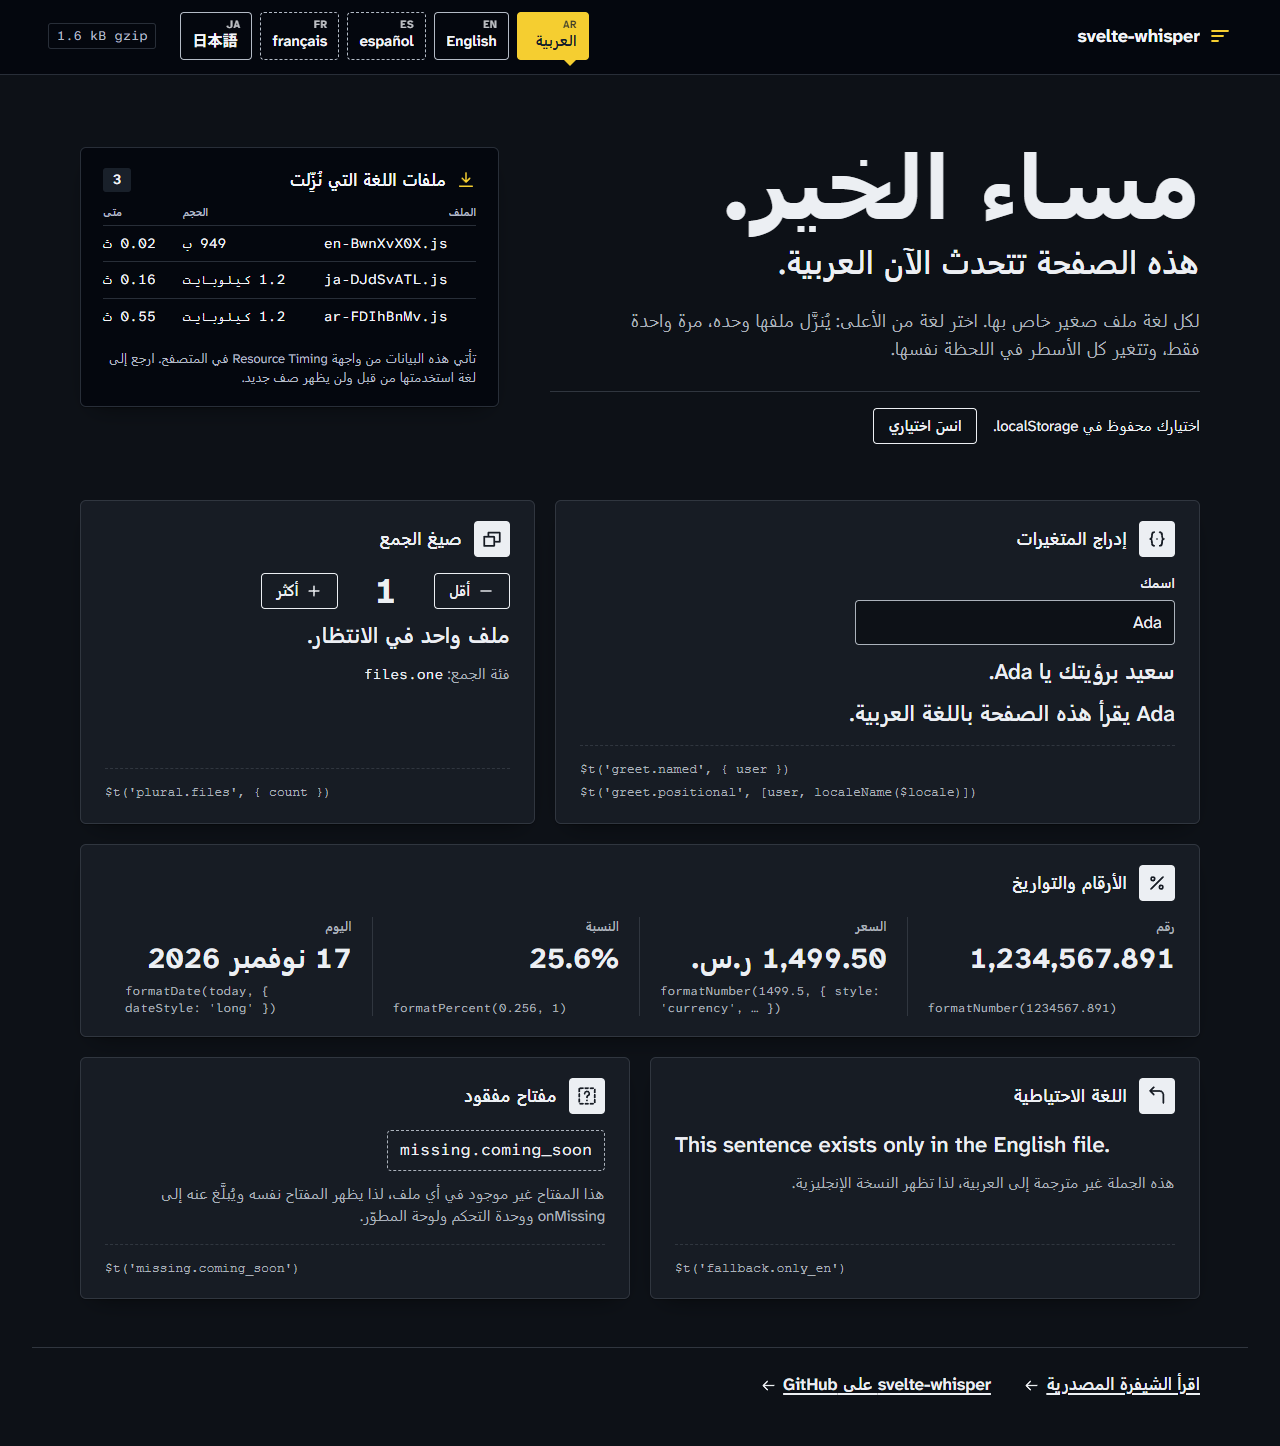
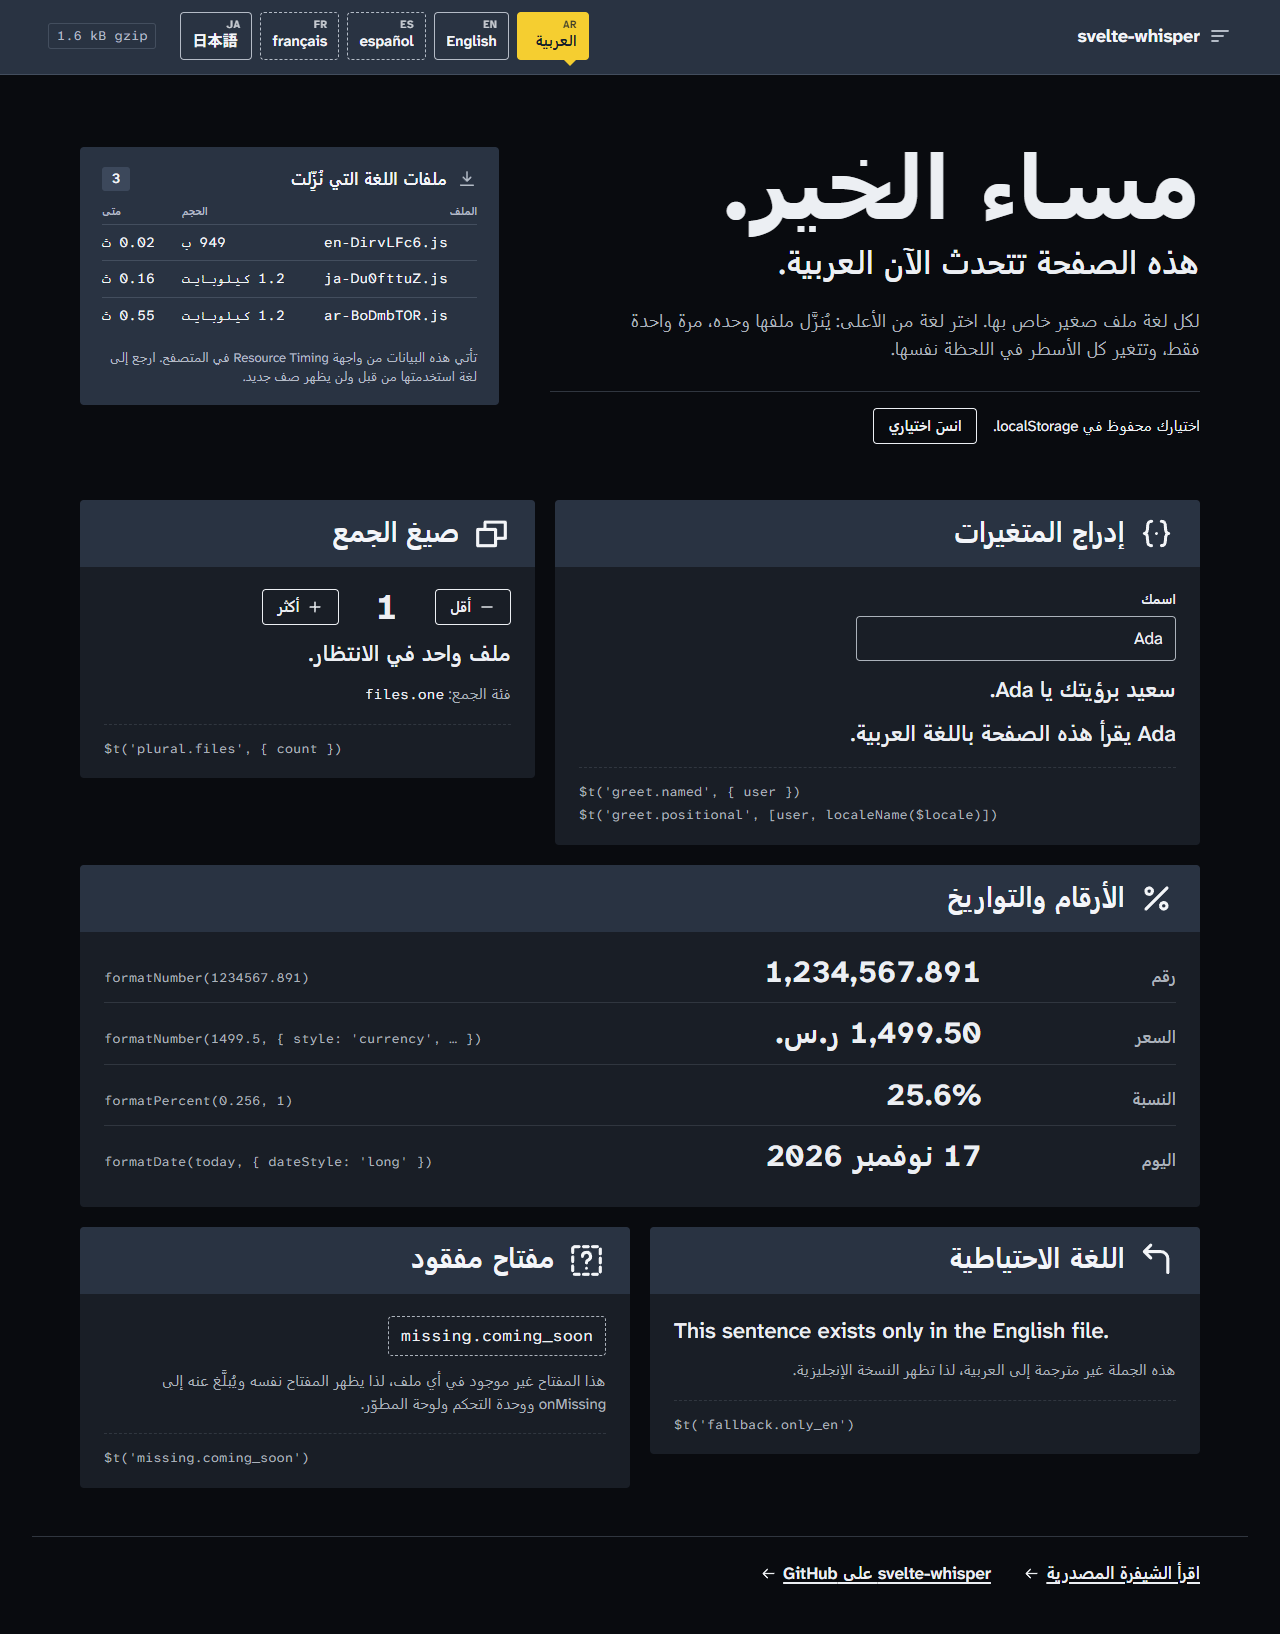
feat(example): flat enamel sign plates on concrete, one signage readout for formatting
Addresses the finish review: signs lose card chrome for an ink legend strip
at sign scale, the ground becomes concrete, signal yellow is reserved for
the active language, the formatting tiles become one label/figure/call
readout, tablet no longer clips the plural counter, code lines use the
mono face in every locale, Japanese headings break between phrases, and
cached rows say "cached". Screenshots recaptured.

diff --git a/example/src/App.svelte b/example/src/App.svelte
@@ -156,7 +156,7 @@
         border-bottom: 1px solid var(--band-rule);
         background: var(--band);
         color: var(--band-ink);
-        --focus: var(--signal);
+        --focus: var(--band-ink);
     }
     .wordmark {
         display: flex;
@@ -169,7 +169,7 @@
     }
     .wordmark :global(svg) {
         font-size: 1.5rem;
-        color: var(--signal);
+        color: var(--band-ink-2);
     }
     nav {
         margin-inline-start: auto;
@@ -268,6 +268,7 @@
     }
     .counter {
         display: flex;
+        flex-wrap: wrap;
         align-items: center;
         gap: 0.75rem;
     }
@@ -286,42 +287,38 @@
         font: 1rem/1.4 var(--mono);
     }
 
+    /* One readout board: label, figure and the call that made it, on a shared baseline. */
     .readouts {
         display: grid;
-        grid-template-columns: repeat(4, minmax(0, 1fr));
         margin: 0;
     }
     .readouts div {
         display: grid;
-        grid-template-rows: auto 1fr auto;
-        gap: 0.375rem;
-        padding-inline: 1.25rem;
-        border-inline-start: 1px solid var(--rule);
+        grid-template-columns: minmax(6.5rem, 0.6fr) minmax(0, 1.6fr) minmax(0, 1.4fr);
+        align-items: baseline;
+        gap: 0.25rem 1.5rem;
+        padding: 0.75rem 0;
+        border-top: 1px solid var(--rule);
     }
     .readouts div:first-child {
-        padding-inline-start: 0;
-        border-inline-start: 0;
+        padding-top: 0;
+        border-top: 0;
     }
     dt {
         color: var(--ink-2);
-        font-size: 0.8125rem;
         font-weight: 600;
-        letter-spacing: 0.04em;
-        text-transform: uppercase;
     }
     dd {
         margin: 0;
-        font-size: clamp(1.375rem, 1rem + 1vw, 1.875rem);
+        font-size: clamp(1.5rem, 1.1rem + 1vw, 2rem);
         font-weight: 700;
         line-height: 1.2;
         font-variant-numeric: tabular-nums;
-        overflow-wrap: anywhere;
     }
     .readouts code {
         color: var(--ink-2);
-        font: 0.75rem/1.4 var(--mono);
+        font: 0.8125rem/1.4 var(--mono);
         text-align: left;
-        overflow-wrap: anywhere;
     }
 
     footer {
@@ -342,17 +339,13 @@
 
     @media (max-width: 60rem) {
         .top { grid-template-columns: minmax(0, 1fr); }
-        .readouts { grid-template-columns: repeat(2, minmax(0, 1fr)); row-gap: 1.5rem; }
-        .readouts div:nth-child(3) { padding-inline-start: 0; border-inline-start: 0; }
     }
     @media (max-width: 62rem) {
         nav { order: 3; width: 100%; margin-inline-start: 0; }
         .size { margin-inline-start: auto; }
     }
     @media (max-width: 40rem) {
-        .readouts { grid-template-columns: minmax(0, 1fr); }
-        .readouts div { padding-inline: 0; border-inline-start: 0; }
-        .readouts div + div { padding-top: 1rem; border-top: 1px solid var(--rule); }
+        .readouts div { grid-template-columns: minmax(0, 1fr); }
         .sample { font-size: 1.25rem; }
     }
 </style>

diff --git a/example/src/app.css b/example/src/app.css
@@ -1,18 +1,18 @@
 @import '@fontsource-variable/atkinson-hyperlegible-next';
 @import '@fontsource-variable/atkinson-hyperlegible-mono';
 
-/* Wayfinding signage: enamel panels on concrete, an ink overhead band,
-   one signal yellow that only ever means "you are here". */
+/* Wayfinding signage: flat enamel plates on concrete, an ink overhead band,
+   and one signal yellow that only ever means "you are here" (the active language). */
 :root {
     --sans: 'Atkinson Hyperlegible Next Variable', system-ui, sans-serif;
     --mono: 'Atkinson Hyperlegible Mono Variable', ui-monospace, monospace;
     --gutter: clamp(1rem, 4vw, 3rem);
 
-    --ground: oklch(0.952 0.005 250);
-    --panel: oklch(0.993 0.002 250);
+    --ground: oklch(0.88 0.006 85);
+    --panel: oklch(0.985 0.003 85);
     --ink: oklch(0.235 0.028 258);
-    --ink-2: oklch(0.46 0.022 258);
-    --rule: oklch(0.86 0.01 258);
+    --ink-2: oklch(0.42 0.02 258);
+    --rule: oklch(0.78 0.01 258);
     --band: oklch(0.255 0.035 258);
     --band-ink: oklch(0.97 0.005 258);
     --band-ink-2: oklch(0.79 0.018 258);
@@ -21,23 +21,21 @@
     --signal: oklch(0.86 0.165 94);
     --on-signal: oklch(0.22 0.03 258);
     --focus: oklch(0.5 0.17 258);
-    --mounted: 0 1px 1px oklch(0.25 0.03 258 / 0.06), 0 8px 20px -12px oklch(0.25 0.03 258 / 0.3);
 
     color-scheme: light;
 }
 
 @media (prefers-color-scheme: dark) {
     :root {
-        --ground: oklch(0.175 0.014 258);
-        --panel: oklch(0.225 0.018 258);
+        --ground: oklch(0.15 0.008 258);
+        --panel: oklch(0.235 0.016 258);
         --ink: oklch(0.95 0.006 258);
         --ink-2: oklch(0.76 0.016 258);
         --rule: oklch(0.33 0.018 258);
-        --band: oklch(0.13 0.016 258);
-        --band-rule: oklch(0.3 0.02 258);
-        --band-hover: oklch(0.24 0.022 258);
-        --focus: var(--signal);
-        --mounted: 0 1px 1px oklch(0 0 0 / 0.3), 0 10px 24px -14px oklch(0 0 0 / 0.7);
+        --band: oklch(0.32 0.03 258);
+        --band-rule: oklch(0.42 0.03 258);
+        --band-hover: oklch(0.4 0.035 258);
+        --focus: oklch(0.78 0.11 240);
         color-scheme: dark;
     }
 }
@@ -71,8 +69,8 @@ body {
 }
 
 ::selection {
-    background: var(--signal);
-    color: var(--on-signal);
+    background: var(--ink);
+    color: var(--panel);
 }
 
 :focus-visible {
@@ -93,12 +91,16 @@ button, input {
     font: inherit;
 }
 
+code {
+    font-family: var(--mono);
+}
+
 input {
     width: 100%;
     padding: 0.55rem 0.75rem;
     border: 1.5px solid var(--ink-2);
     border-radius: 4px;
-    background: var(--ground);
+    background: var(--panel);
     color: var(--ink);
     font-size: 1.0625rem;
     font-weight: 400;
@@ -141,4 +143,9 @@ input:focus-visible {
     *, *::before, *::after {
         transition-duration: 1ms !important;
     }
+}
+
+/* Japanese headings break between phrases, not inside words. */
+:root:lang(ja) :is(h1, h2) {
+    word-break: auto-phrase;
 }

diff --git a/example/src/lib/Sign.svelte b/example/src/lib/Sign.svelte
@@ -7,26 +7,25 @@
 </script>
 
 <section class="sign {span}" aria-labelledby={id}>
-    <h2 {id}><span class="plate"><Pictogram name={icon} /></span>{title}</h2>
-    <div class="body">{@render children()}</div>
-    {#if call.length}
-        <p class="call" dir="ltr">
-            {#each call as line}<code>{line}</code>{/each}
-        </p>
-    {/if}
+    <h2 {id}><Pictogram name={icon} />{title}</h2>
+    <div class="body">
+        {@render children()}
+        {#if call.length}
+            <p class="call" dir="ltr">
+                {#each call as line}<code>{line}</code>{/each}
+            </p>
+        {/if}
+    </div>
 </section>
 
 <style>
+    /* A sign is a flat enamel plate: an ink legend strip over a plain field. No card chrome. */
     .sign {
         grid-column: span 6;
-        display: flex;
-        flex-direction: column;
-        gap: 1rem;
-        padding: 1.25rem 1.5rem 1.25rem;
+        align-self: start;
+        overflow: hidden;
+        border-radius: 4px;
         background: var(--panel);
-        border: 1px solid var(--rule);
-        border-radius: 6px;
-        box-shadow: var(--mounted);
     }
     .wide { grid-column: 1 / -1; }
     .major { grid-column: span 7; }
@@ -37,30 +36,26 @@
         align-items: center;
         gap: 0.75rem;
         margin: 0;
-        font-size: 1.125rem;
+        padding: 0.875rem 1.5rem;
+        background: var(--band);
+        color: var(--band-ink);
+        font-size: clamp(1.375rem, 1.1rem + 0.8vw, 1.75rem);
         font-weight: 700;
-        line-height: 1.25;
+        line-height: 1.2;
+        letter-spacing: -0.01em;
     }
-    .plate {
-        display: grid;
-        place-items: center;
-        width: 2.25rem;
-        height: 2.25rem;
-        flex: none;
-        border-radius: 4px;
-        background: var(--ink);
-        color: var(--panel);
-        font-size: 1.375rem;
+    h2 :global(svg) {
+        font-size: 1.4em;
     }
     .body {
         display: grid;
-        gap: 0.75rem;
-        align-content: start;
+        gap: 0.875rem;
+        padding: 1.375rem 1.5rem 1.25rem;
     }
     .call {
         display: grid;
         gap: 0.25rem;
-        margin: auto 0 0;
+        margin: 0.25rem 0 0;
         padding-top: 0.875rem;
         border-top: 1px dashed var(--rule);
         color: var(--ink-2);
@@ -69,8 +64,12 @@
         overflow-wrap: anywhere;
     }
 
+    @media (max-width: 60rem) {
+        .major, .minor { grid-column: span 6; }
+    }
     @media (max-width: 44rem) {
         .sign, .major, .minor { grid-column: 1 / -1; }
-        .sign { padding: 1.125rem 1.125rem 1rem; }
+        h2 { padding: 0.75rem 1.125rem; }
+        .body { padding: 1.125rem 1.125rem 1rem; }
     }
 </style>

diff --git a/example/src/lib/DownloadBoard.svelte b/example/src/lib/DownloadBoard.svelte
@@ -43,11 +43,9 @@
     .board {
         align-self: start;
         padding: 1.25rem 1.375rem 1.125rem;
-        border: 1px solid var(--band-rule);
-        border-radius: 6px;
+        border-radius: 4px;
         background: var(--band);
         color: var(--band-ink);
-        box-shadow: var(--mounted);
     }
     h2 {
         display: flex;
@@ -60,7 +58,7 @@
     }
     h2 :global(svg) {
         font-size: 1.25rem;
-        color: var(--signal);
+        color: var(--band-ink-2);
     }
     .count {
         margin-inline-start: auto;
@@ -97,12 +95,12 @@
     td:first-child {
         text-align: start;
     }
-    /* The arrival: a new row lights up in the signal colour and settles. */
+    /* The arrival: a new row lights up and settles. */
     tbody tr {
         animation: arrive 1.6s cubic-bezier(0.16, 1, 0.3, 1);
     }
     @keyframes arrive {
-        from { background: color-mix(in oklch, var(--signal) 45%, transparent); }
+        from { background: color-mix(in oklch, var(--band-ink) 22%, transparent); }
     }
     .note {
         margin: 0.875rem 0 0;

diff --git a/example/src/lib/LanguageGates.svelte b/example/src/lib/LanguageGates.svelte
@@ -51,7 +51,7 @@
     button:hover {
         background: var(--band-hover);
     }
-    /* You are here: the one place the signal colour is used. */
+    /* You are here: the only use of the signal colour on the page. */
     button[aria-pressed='true'] {
         border-color: var(--signal);
         background: var(--signal);

diff --git a/example/.impeccable/surfaces/src-app-svelte.md b/example/.impeccable/surfaces/src-app-svelte.md
@@ -11,9 +11,9 @@ Scope: `example/src/App.svelte` and its components; visitor mode Experience (the
 
 ## Direction contract
 
-THESIS: The page is a multilingual transit sign system: every feature is a numbered sign that changes language the instant you pick a gate. It refuses the library-landing default (gradient hero, code blocks, feature-card grid).
+THESIS: The page is a multilingual transit sign system: every feature is a sign, identified by its pictogram plate, that changes language the instant you pick a gate. (Numbering was dropped: the order carries no information, and the craft floor bans decorative section numbers.) It refuses the library-landing default (gradient hero, code blocks, feature-card grid).
 
-OWN-WORLD: Enamel sign panels on concrete ground; an ink overhead band; one signal yellow reserved for "you are here" (the active locale). Atkinson Hyperlegible Next for all signage, its Mono sibling for codes, bytes and API calls. Square pictogram plates (authored SVG, one stroke); direction arrows that mirror in RTL. Unloaded locales are dashed outlines, loaded ones solid.
+OWN-WORLD: Flat enamel plates (an ink legend strip over a plain field, no card chrome) on concrete ground; an ink overhead band; one signal yellow reserved for "you are here" (the active locale). Atkinson Hyperlegible Next for all signage, its Mono sibling for codes, bytes and API calls. Square pictogram plates (authored SVG, one stroke); direction arrows that mirror in RTL. Unloaded locales are dashed outlines, loaded ones solid.
 
 STORY: The visitor sees the page speak their language, picks another gate, watches one file arrive on the arrivals board with its real size, then tries each sign by hand and reads the one-line call under it.
 
